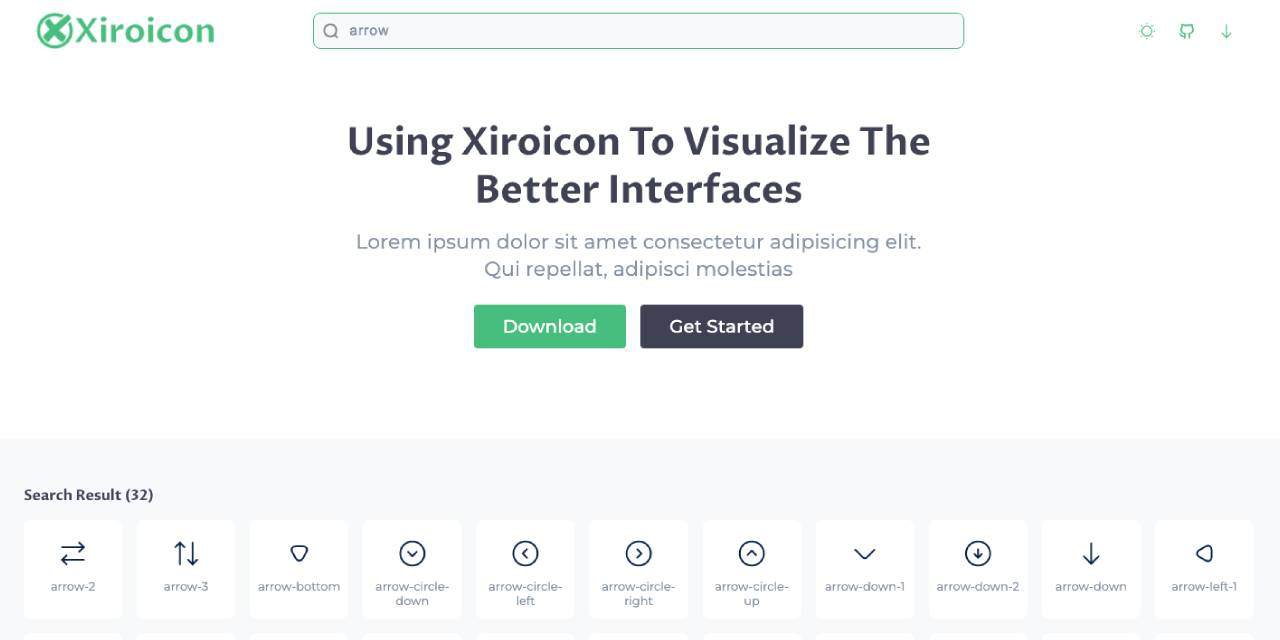
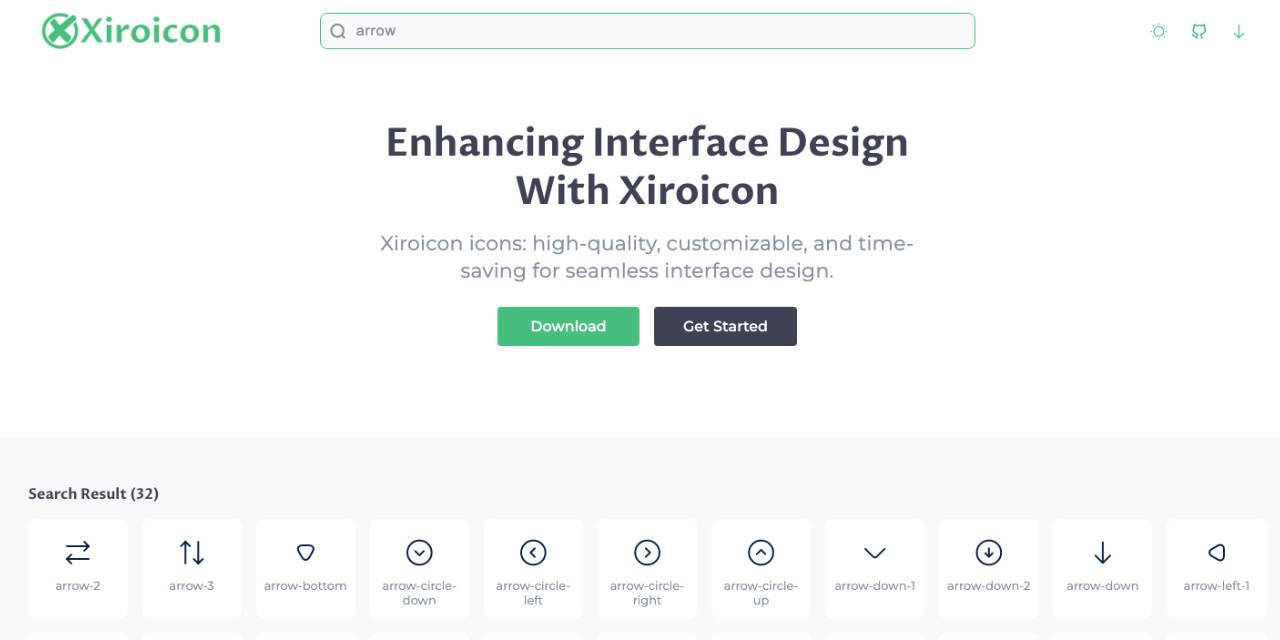
update redme

diff --git a/readme.md b/readme.md
@@ -2,24 +2,25 @@
 
 ![GitHub Workflow Status](https://img.shields.io/github/actions/workflow/status/xirosoft/xiroicon/deploy.yml) &nbsp; ![GitHub package.json version](https://img.shields.io/github/package-json/v/xirosoft/xiroicon) &nbsp; ![GitHub all releases](https://img.shields.io/github/downloads/xirosoft/xiroicon/total)
 
-Xiroicon is a set of open-source icon package for designers and develoeprs. 
+Xiroicon icons: high-quality, customizable, and time-saving for seamless interface design.
 [![screenshot](./public/screenshot.jpeg)](https://xirosoft.github.io/xiroicon)
 Explore our full icon set at [https://xirosoft.github.io/xiroicon](https://xirosoft.github.io/xiroicon).
 
 ## Usage 
 ### Basic Usage
 
-Just click the icons you want from [https://xirosoft.github.io/xiroicon](https://xirosoft.github.io/xiroicon), and then you can download the icons in SVG or PNG format.
+Discover a new way to streamline your design process with Xiroicon, the open source icon package manager from Xirosoft. Simply visit [https://xirosoft.github.io/xiroicon](https://xirosoft.github.io/xiroicon) select the icons you need, and download them in SVG or PNG format.
+Need to use a vector graphic in your design? With the `Copy SVG` button, you can easily paste the graphic directly into your design tool using `⌘+V` or `Ctrl+V` difference it can make for your design process.
 
-Designers can click the `Copy SVG` button and then press `⌘+V` or `Ctrl+V` to paste the vector graphic into your design tool directly, easy and simple.
 
-> We recommend that designers download or copy icons from our website when needed instead of managing all of them in a local folder. The website's search engine allows you to quickly locate the icon you are looking for and the icons on the website are being continuously updated.
->
-> The `Copy Icon` now supports Sketch, Figma, Adobe XD, Adobe Illustrator, Affinity Designer, Affinity Photo, etc.
+> Simplify your design process with Xiroicon, the open source icon package manager that offers a better way to manage your icon sets. Our website provides a comprehensive library of continuously updated icons that are easy to search and download. We recommend downloading or copying icons from our website instead of storing them locally. With the `Copy Icon` feature, you can seamlessly paste icons into popular design tools like Sketch, Figma, Adobe XD, and more.
+> 
+> Streamline your design workflow with Xiroicon and take your work to the next level.
+> **Try it out today!**
 
 ### Webfont Usage
 
-> **Note:** You can import **Xiroicon** cdn or download it manually.
+> **Note:** You can import **Xiroicon** cdn or [download](https://github.com/Xirosoft/xiroicon/archive/refs/tags/v0.1.0.zip) it manually.
 
 #### CDN
 
@@ -41,6 +42,9 @@ Add icon with class name, class name rule: xiroicon xi-{name}
 <i class="xiroicon xi-arrow"></i>
 <i class="xiroicon xi-arrow-left"></i>
 ```
+
+## Conclusion
+[Xirosoft](https://xirosoft.com) is the perfect solution for designers and developers looking for a simple, streamlined way to manage their icon sets. Our open source icon package manager offers a comprehensive library of continuously updated icons that are easy to search and download, making it easy to find the perfect icon for your project. With the Copy Icon feature, you can easily paste icons into popular design tools like Sketch, Figma, Adobe XD, and more. Xiroicon is designed to simplify your design process and help you achieve your creative vision with ease. So why wait? Try Xiroicon today and see how it can transform your design workflow.
 
 
 ## Contributing
